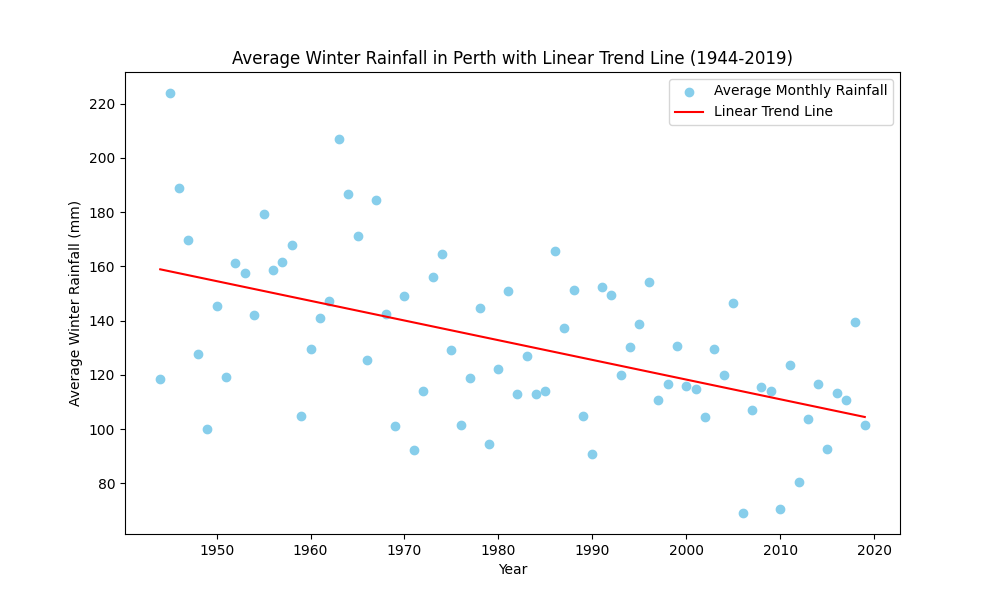
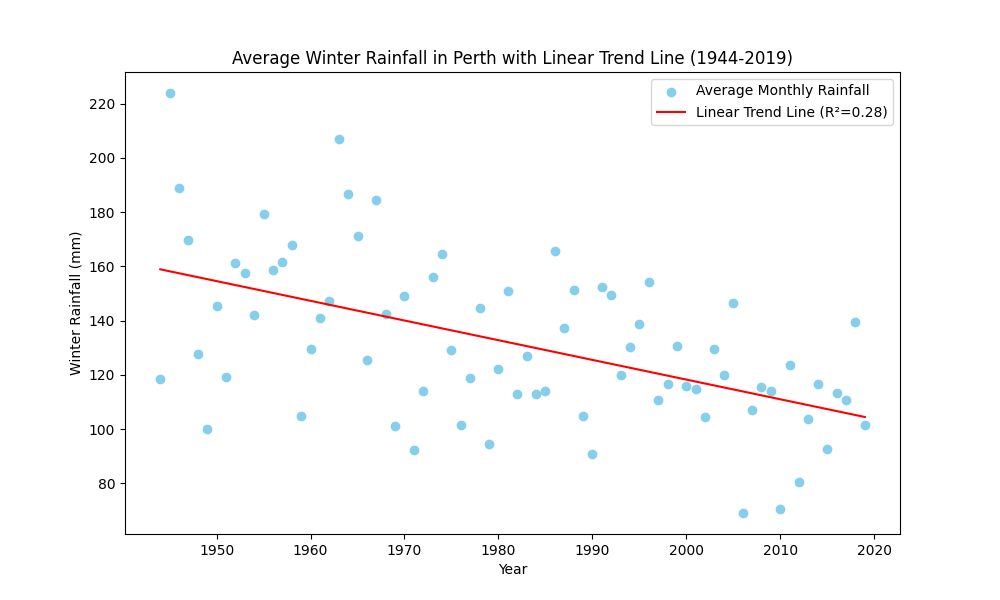
Added r-squared values to graph and updated images

Changed region(s): [[0.651, 0.12, 0.899, 0.21], [0.062, 0.33, 0.093, 0.66]]

diff --git a/Amartya_Assn1_Working.py b/Amartya_Assn1_Working.py
@@ -4,8 +4,9 @@
 import os
 import pandas as pd
 import matplotlib.pyplot as plt
-from sklearn.linear_model import LinearRegression
 from scipy.stats import ttest_ind
+from sklearn.metrics import r2_score
+from sklearn.linear_model import LinearRegression
 
 path = r'C:\Users\amart\OneDrive - The University of Chicago\IntlClimatePolicy_PPHA39930\Assignments\Assn1_IntlClimatePolicy'
 
@@ -76,8 +77,13 @@ def plot_rainfall_trend(df, month, y_label, title):
     y = monthly_rainfall['PRCP'].values
     model = LinearRegression().fit(X, y)
     trend_line = model.predict(X)
-    plt.plot(monthly_rainfall['DATE'].dt.year, trend_line, color='red', label='Linear Trend Line')
-    
+   
+    # Calculate R-squared value
+    r_squared = r2_score(y, trend_line)
+
+    # Plot the linear trend line
+    plt.plot(monthly_rainfall['DATE'].dt.year, trend_line, color='red', label=f'Linear Trend Line (R²={r_squared:.2f})')
+
     # Setting x and y-axis labels
     plt.xlabel('Year')
     plt.ylabel(y_label)
